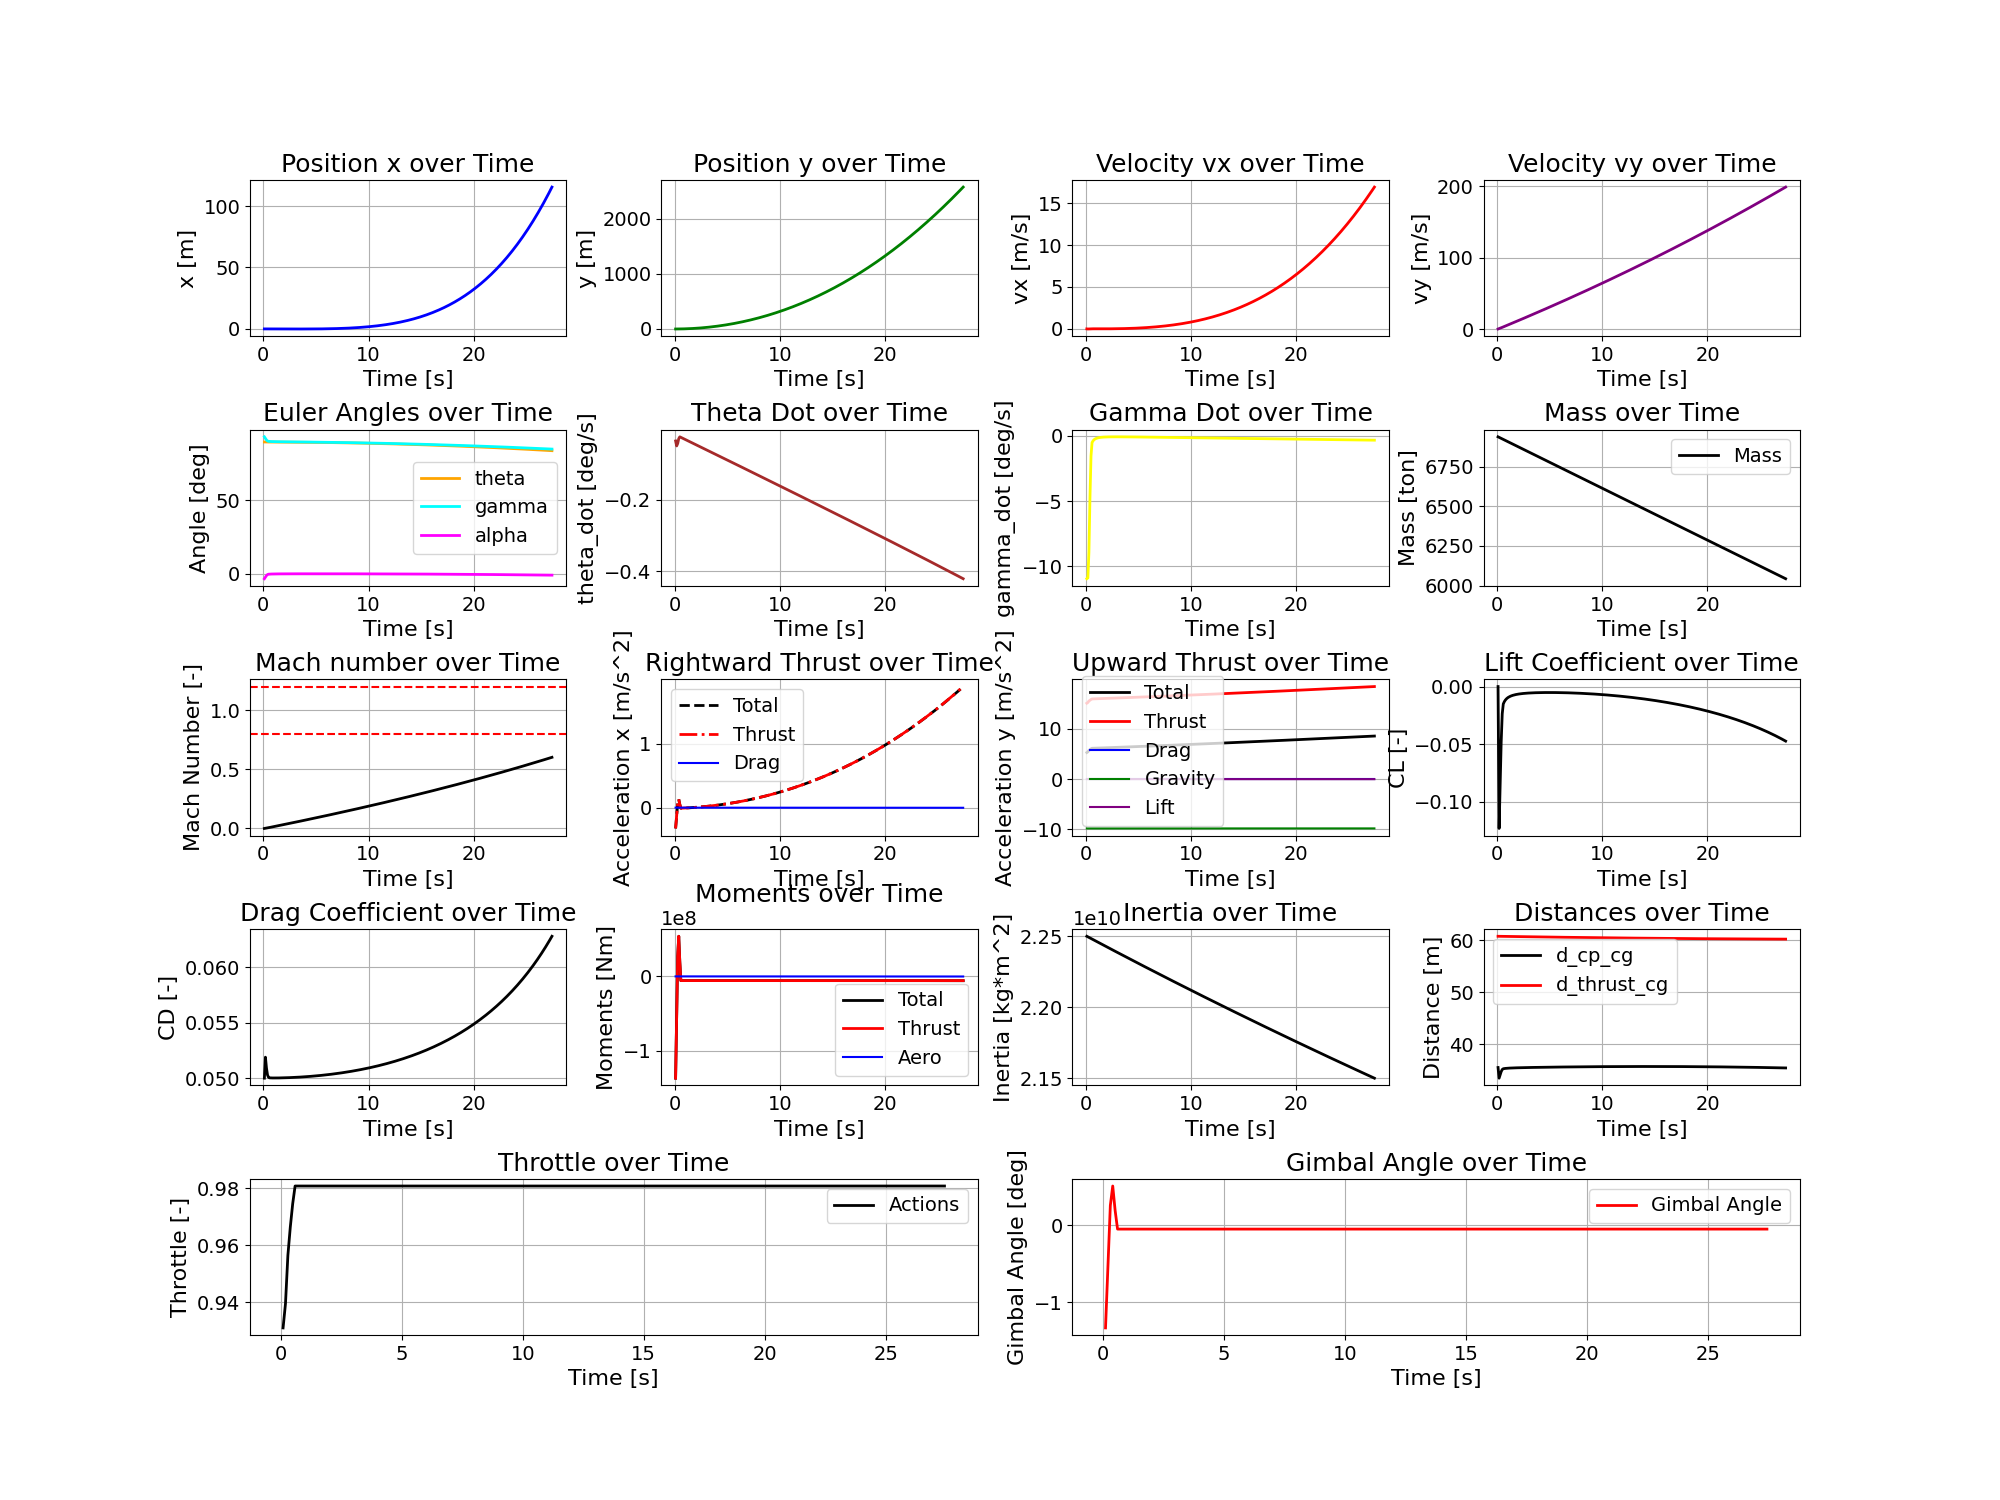
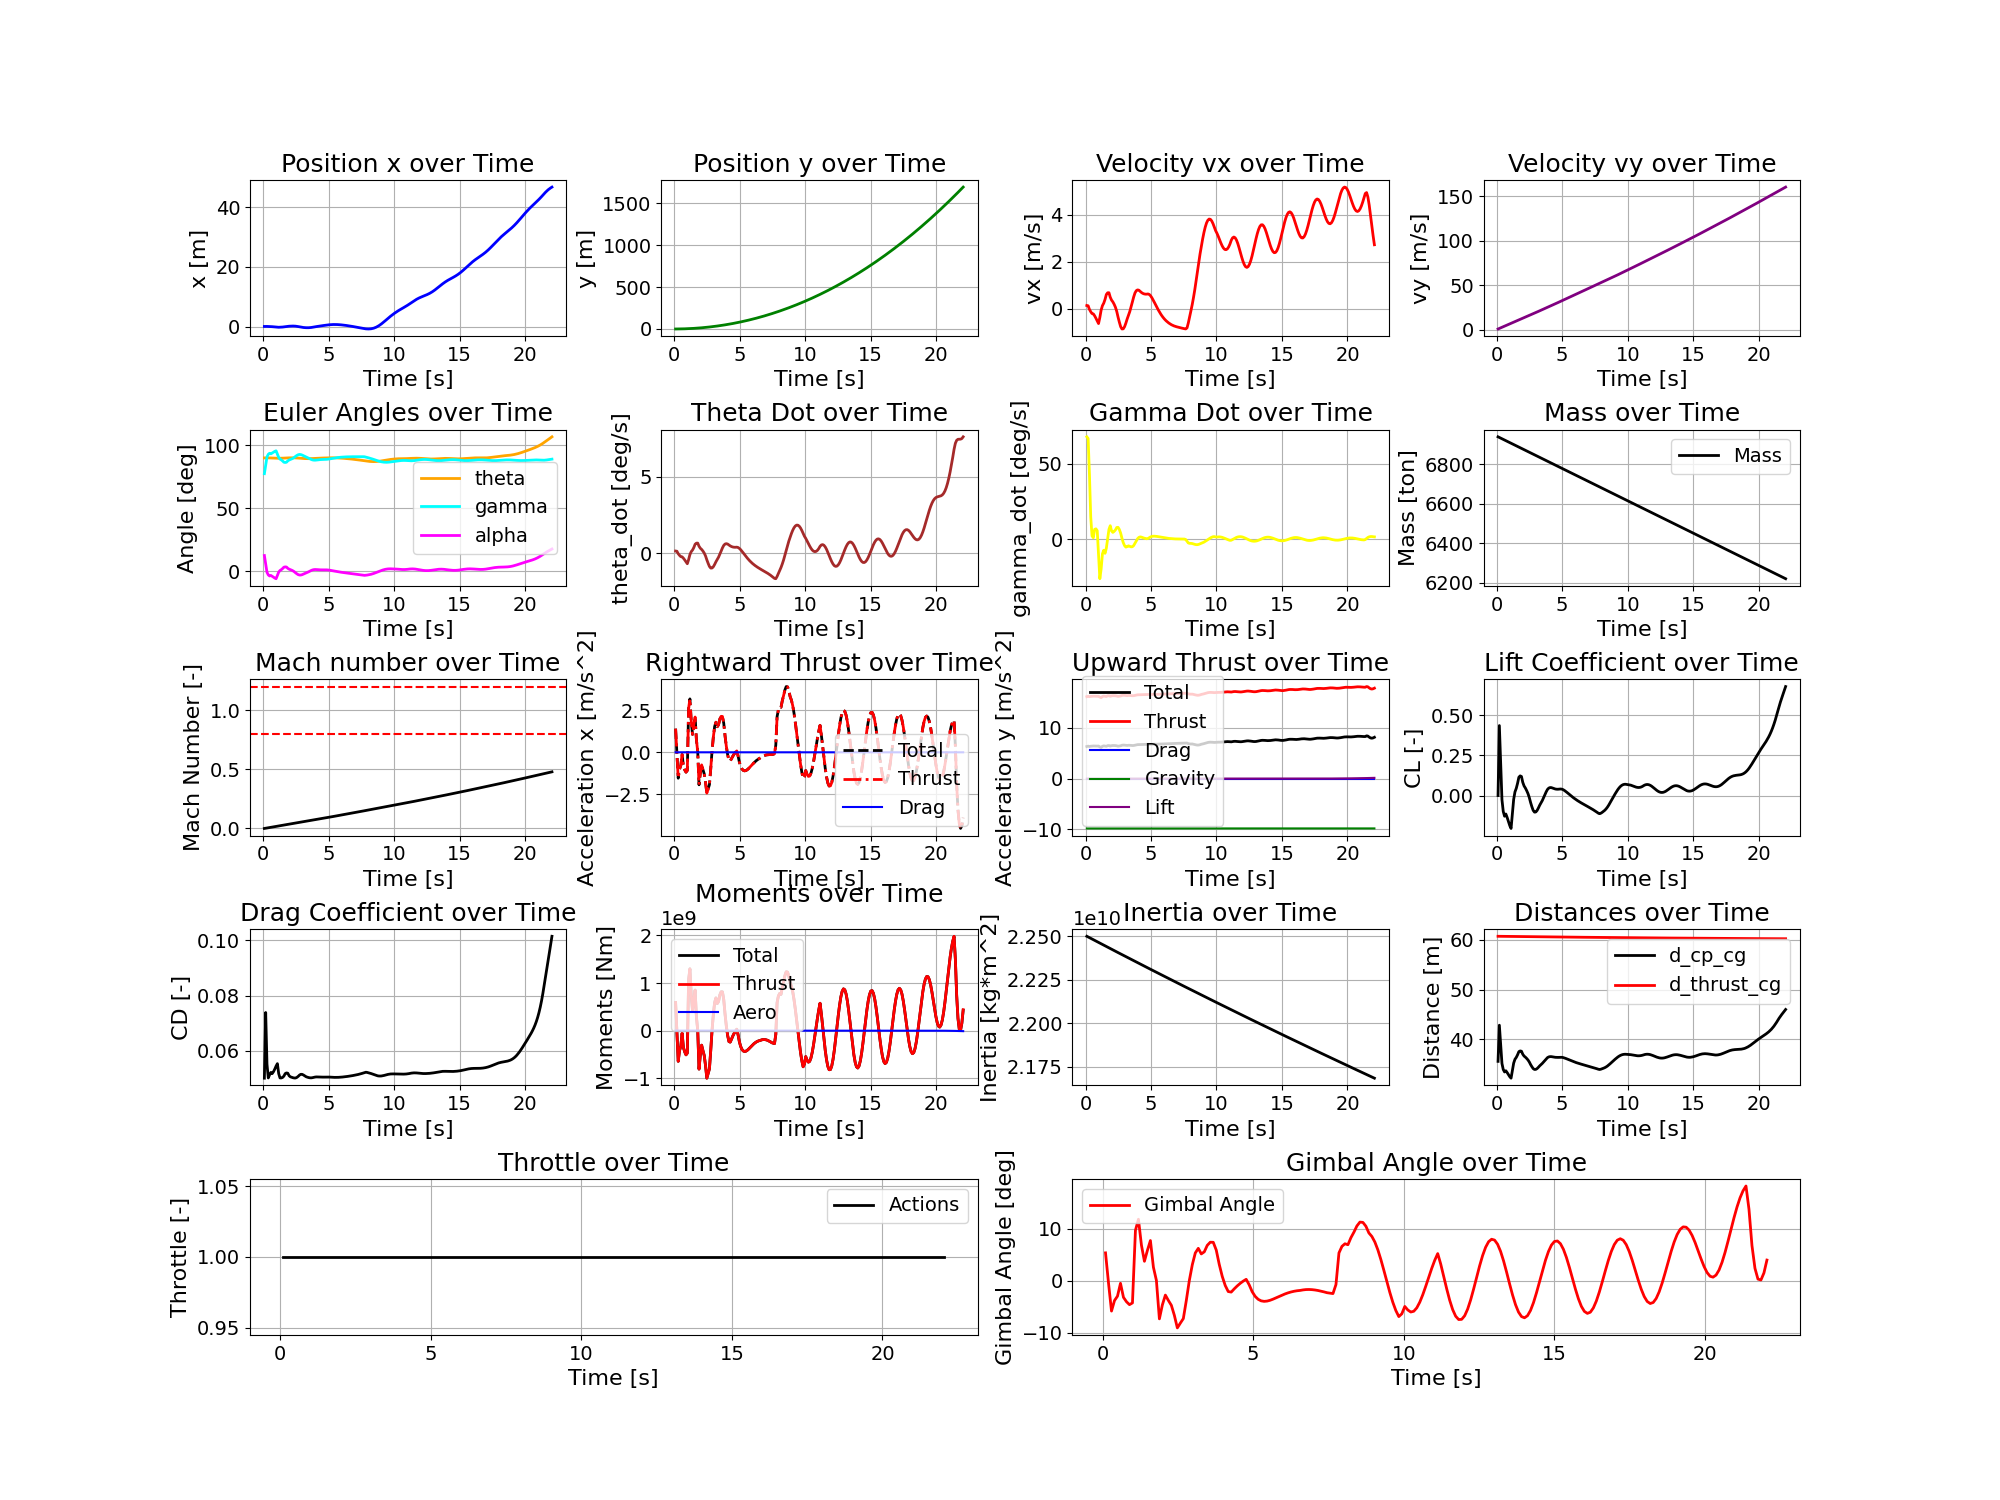
isconerging

diff --git a/src/evolutionary_algorithms/env_EA.py b/src/evolutionary_algorithms/env_EA.py
@@ -16,7 +16,7 @@ class model:
 class simple_actor:
     def __init__(self,
                  number_of_hidden_layers = 3,
-                 hidden_dim = 10,
+                 hidden_dim = 25,
                  output_dim = 2,
                  input_dim = 5):
         self.number_of_hidden_layers = number_of_hidden_layers
@@ -85,15 +85,24 @@ class simple_actor:
 class endo_ascent_wrapped_EA:
     def __init__(self):
         self.env = rocket_model_endo_ascent()
+        self.initial_mass = self.env.reset()[-2]
 
     def augment_state(self, state):
         x, y, vx, vy, theta, theta_dot, gamma, alpha, mass, mass_propellant, time = state
         
         # Handle tensors by detaching them before converting to numpy
         if isinstance(x, torch.Tensor):
-            return torch.tensor([x.detach(), y.detach(), theta.detach()], dtype=torch.float32)
+            return torch.tensor([x.detach(),
+                                 y.detach(),
+                                 vx.detach(),
+                                 vy.detach(),
+                                 theta.detach(),
+                                 theta_dot.detach(),
+                                 gamma.detach(),
+                                 alpha.detach(),
+                                 mass.detach()/self.initial_mass], dtype=torch.float32)
         else:
-            return np.array([x, y, theta])
+            return np.array([x, y, vx, vy, theta, theta_dot, gamma, alpha, mass/self.initial_mass])
     
     def step(self, action):
         action_detached = action.detach().numpy()
@@ -113,7 +122,7 @@ class env_EA_endo_ascent:
         self.env = endo_ascent_wrapped_EA()
         
         # Initialise the network with correct input dimension (3 for x, y, theta)
-        self.actor = simple_actor(input_dim=3)
+        self.actor = simple_actor(input_dim=9)
         self.mock_dictionary_of_opt_params, self.bounds = self.actor.return_setup_vals()
 
     def individual_update_model(self, individual):

diff --git a/configs/evolutionary_algorithms_config.py b/configs/evolutionary_algorithms_config.py
@@ -11,8 +11,8 @@ genetic_algorithm_params = {
 }
 
 pso_params = {
-    'pop_size' : 500,
-    'generations' : 20,
+    'pop_size' : 400,
+    'generations' : 30,
     'c1' : 1,
     'c2' : 1,
     'w_start' : 0.9,
